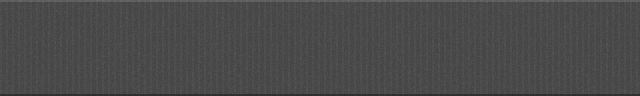
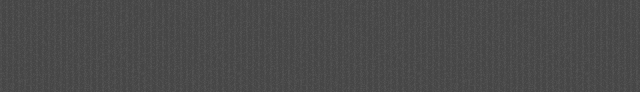
Changed sidebar to use the striped background for the entire table view in order to match the design. Tweaked the current cell background to just have the border and a 50% mask when selected in order to darken the cell. And added an easter egg to the table view header :) Maybe we should put the "cod

Changed region(s): [[0.0, 0.9783, 1.0, 1.0], [0.0, 0.0, 1.0, 0.0217]]

diff --git a/Classes/SidebarViewController.m b/Classes/SidebarViewController.m
@@ -87,6 +87,8 @@
     self.tableView.dataSource = self;
     self.tableView.separatorStyle = UITableViewCellSeparatorStyleNone;
     self.tableView.showsVerticalScrollIndicator = NO;
+    self.tableView.backgroundColor = [UIColor colorWithPatternImage:[UIImage imageNamed:@"sidebar_bg"]];
+
     //self.view.backgroundColor = SIDEBAR_BGCOLOR;
     self.openSection = nil;
     
@@ -474,8 +476,8 @@
         cell.textLabel.shadowColor = [UIColor blackColor];
         cell.textLabel.textColor = [[UIColor alloc] initWithRed:221.0f/255.0f green:221.0f/255.0f blue:221.0f/255.0f alpha:1.0f];
         cell.textLabel.font = [UIFont systemFontOfSize:17.0];
-        cell.backgroundView = [[[UIImageView alloc] initWithImage:[ [UIImage imageNamed:@"sidebar_bg.png"] stretchableImageWithLeftCapWidth:0.0 topCapHeight:5.0]] autorelease];
-        cell.selectedBackgroundView = [[[UIImageView alloc] initWithImage:[ [UIImage imageNamed:@"sidebar_bg_selected.png"] stretchableImageWithLeftCapWidth:0.0 topCapHeight:5.0]] autorelease];
+        cell.backgroundView = [[[UIImageView alloc] initWithImage:[ [UIImage imageNamed:@"sidebar_cell_bg.png"] stretchableImageWithLeftCapWidth:0.0 topCapHeight:5.0]] autorelease];
+        cell.selectedBackgroundView = [[[UIImageView alloc] initWithImage:[ [UIImage imageNamed:@"sidebar_cell_bg_selected.png"] stretchableImageWithLeftCapWidth:0.0 topCapHeight:5.0]] autorelease];
     }
     
     NSString *title = nil;

diff --git a/Classes/SidebarSectionHeaderView.m b/Classes/SidebarSectionHeaderView.m
@@ -89,7 +89,7 @@
         [self addSubview:button];
         _disclosureButton = button;
         
-        background = [[UIImageView alloc] initWithImage:[UIImage imageNamed:@"sidebar_bg"]];
+        background = [[UIImageView alloc] initWithImage:[UIImage imageNamed:@"sidebar_cell_bg"]];
         [self addSubview:background];
         [self sendSubviewToBack:background];
     }
